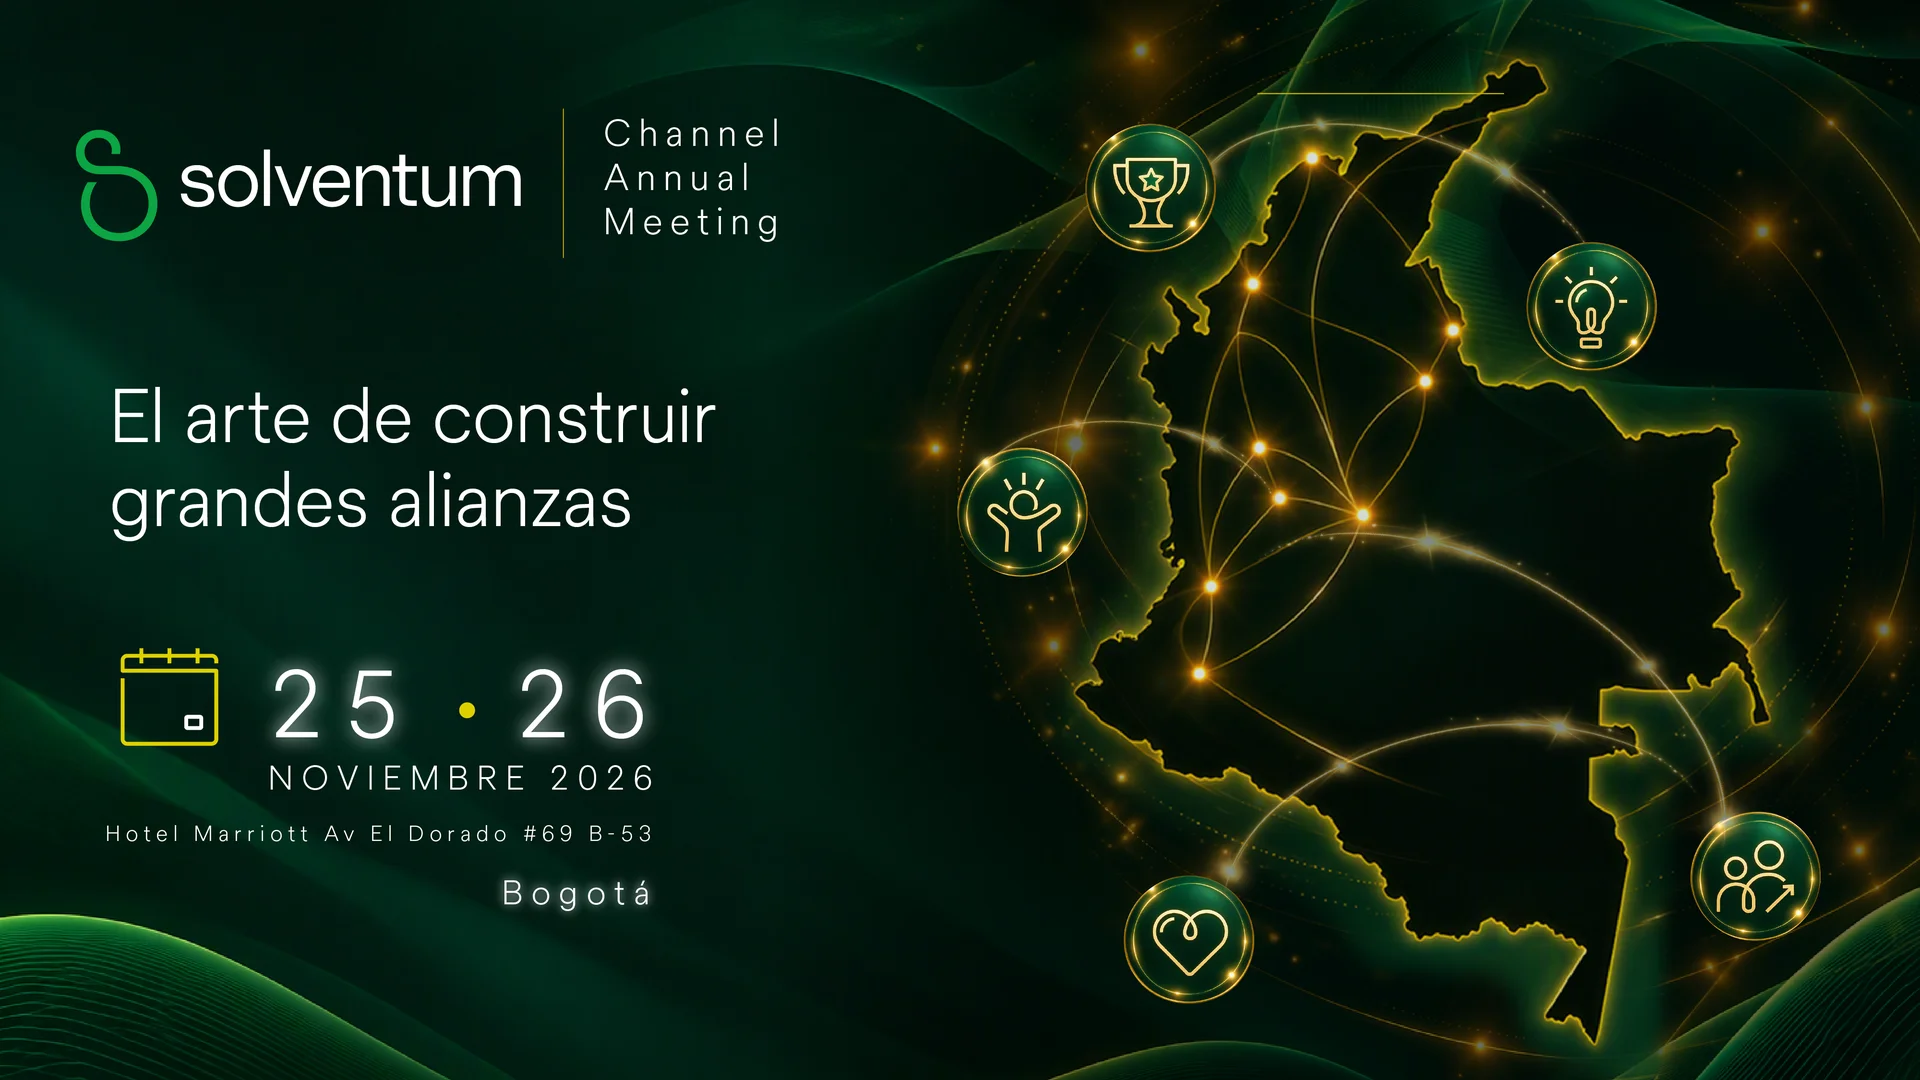
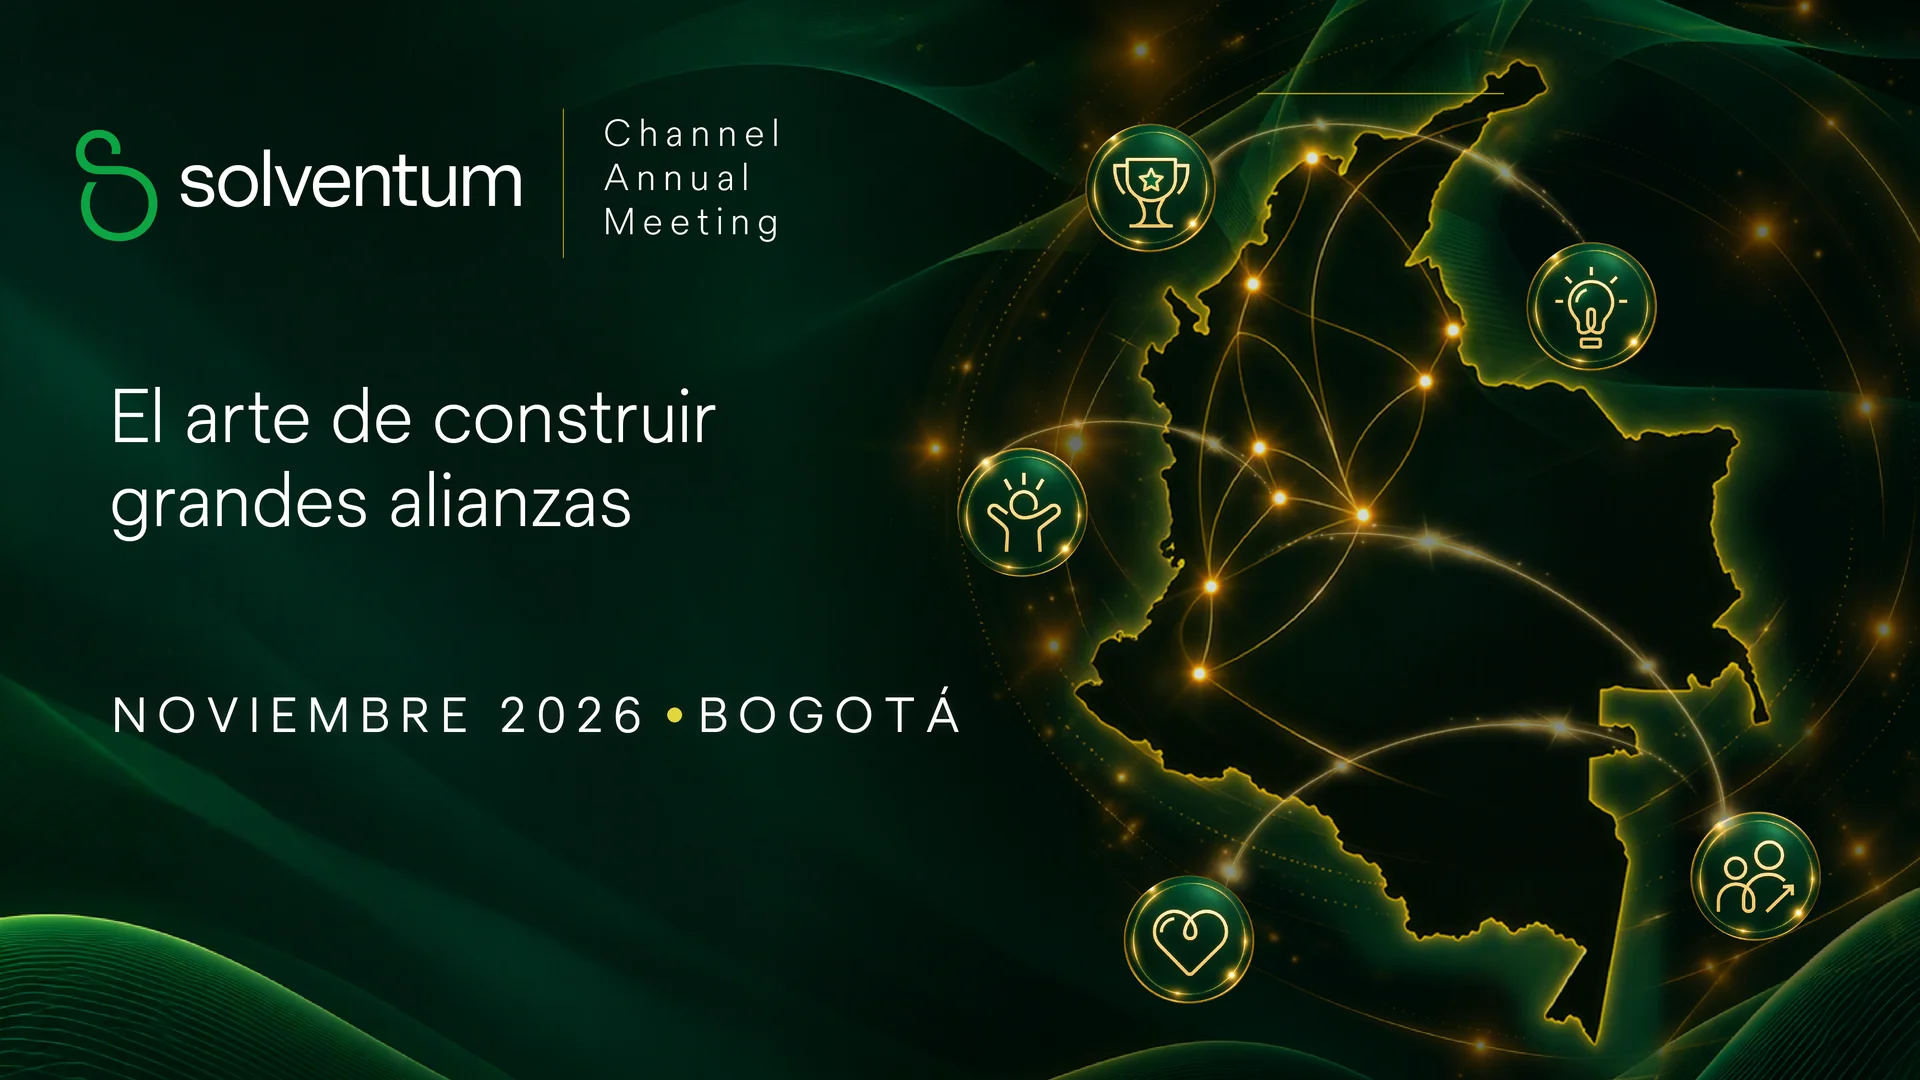
INNOVATION DAY: portada y pie solo con Noviembre 2026 · Bogotá
Claude-Session: https://claude.ai/code/session_01RZ8bJxSsEPXGxjm4o3ruhT

Changed region(s): [[0.0625, 0.5806, 0.5, 0.7333], [0.2188, 0.7639, 0.3438, 0.8556], [0.0625, 0.7639, 0.125, 0.7944]]

diff --git a/innovation-day-aprendamos-juntos/ranking.html b/innovation-day-aprendamos-juntos/ranking.html
@@ -54,7 +54,7 @@ footer a,footer button{color:var(--gold);background:none;border:0;font:inherit;c
   </div>
   <div id="list" aria-live="polite"></div>
   <footer>
-    <span>25 y 26 de noviembre de 2026 · Hotel Marriott, Bogotá · Experiencia diseñada por Simoné</span>
+    <span>Innovation Day · Noviembre 2026 · Bogotá · Experiencia diseñada por Simoné</span>
     <span><a href="./">Volver al juego</a> · <button id="reset" type="button">Borrar ranking</button></span>
   </footer>
 </div>

diff --git a/innovation-day-aprendamos-juntos/index.html b/innovation-day-aprendamos-juntos/index.html
@@ -176,7 +176,7 @@ footer{display:flex;flex-wrap:wrap;justify-content:space-between;gap:12px;color:
   </header>
   <main id="view"></main>
   <footer>
-    <span>Innovation Day · 25 y 26 de noviembre de 2026 · Hotel Marriott, Bogotá · Experiencia diseñada por Simoné</span>
+    <span>Innovation Day · Noviembre 2026 · Bogotá · Experiencia diseñada por Simoné</span>
     <a href="ranking.html" class="flink">Ver ranking</a>
   </footer>
 </div>
